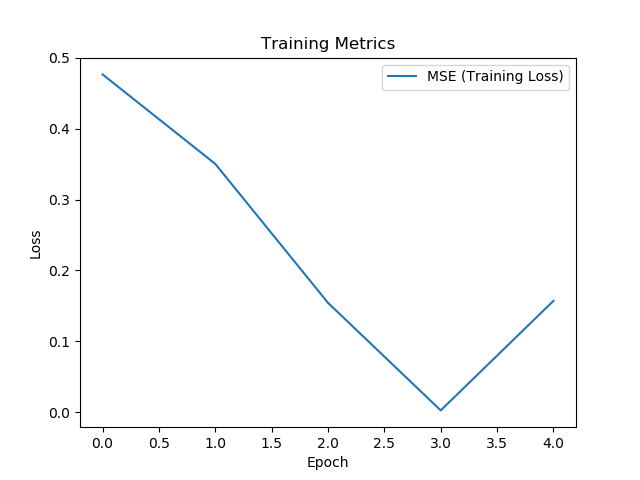
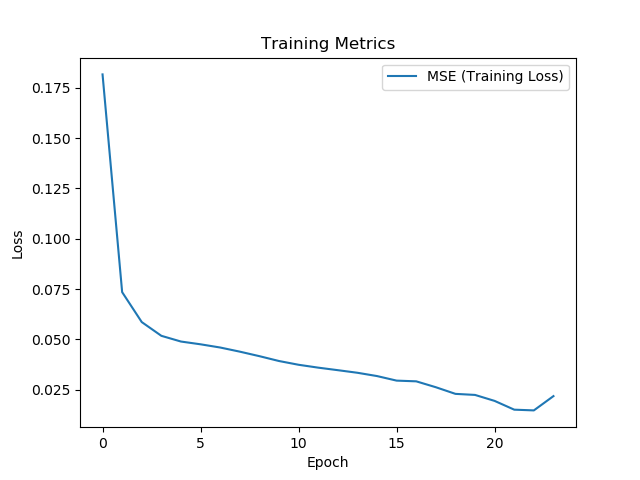
Adds logging + threshold changes

diff --git a/seq2point_test.py b/seq2point_test.py
@@ -1,4 +1,5 @@
-import os 
+import os
+import logging
 import numpy as np 
 import keras
 import pandas as pd
@@ -16,7 +17,11 @@ def count_pruned_weights(model):
             layer_weights = layer.get_weights()[0].flatten()
             num_zeros += np.count_nonzero(layer_weights==0)
             num_weights += np.size(layer_weights)
-    print("Model contains ", num_zeros, " zeros. Compression factor: ", str(num_weights / num_zeros))
+    pruned_log = "Pruned Weights: " + str(num_zeros)
+    logging.info(pruned_log)
+
+    compression_log = "Compression Factor: " + str((num_weights - num_zeros) / num_weights)
+    logging.info(compression_log)
 
 def test_model(appliance, algorithm, test_domain, crop, batch_size):
 
@@ -25,6 +30,7 @@ def test_model(appliance, algorithm, test_domain, crop, batch_size):
 
     Parameters:
     appliance (string): The appliance that the neural network was trained to make inferences for.
+    algorithm (string): The pruning algorithm of the model to test.
     test_domain (string): The appliance that the neural network will be tested with.
     crop (int): The number of rows of the testing dataset to train the network with.
     batch_size (int): The portion of the cropped dataset to be processed by the network at once.
@@ -76,11 +82,18 @@ def test_model(appliance, algorithm, test_domain, crop, batch_size):
     end_time = time.time()
     test_time = end_time - start_time
 
-    print("Test Time: ", test_time)
+    log_file = "./" + appliance + "/saved_model/" + appliance + "_" + algorithm + "_test_log.log"
+    logging.basicConfig(filename=log_file,level=logging.INFO)
+
+    inference_log = "Inference Time: " + str(test_time)
+    logging.info(inference_log)
 
     count_pruned_weights(model)
 
     evaluation_metrics = model.evaluate(x=test_generator.load_data(), steps=steps_per_test_epoch)
+
+    metric_string = "MSE: ", str(evaluation_metrics[0]), " MAE: ", str(evaluation_metrics[3])
+    logging.info(metric_string)
 
     testing_history = ((testing_history * appliance_data[appliance]["std"]) + appliance_data[appliance]["mean"])
     test_target = ((test_target * appliance_data[appliance]["std"]) + appliance_data[appliance]["mean"])
@@ -101,6 +114,6 @@ def test_model(appliance, algorithm, test_domain, crop, batch_size):
     plt.ylabel('Normalised Prediction')
     plt.xlabel('Testing Window')
     plt.legend()
-    plt.savefig(fname="testing_results.png")
-    
-    plt.show()
+
+    file_path = "./" + appliance + "/saved_model/" + appliance + "_" + algorithm + "_test_figure.png"
+    plt.savefig(fname=file_path)

diff --git a/threshold_callback.py b/threshold_callback.py
@@ -2,18 +2,7 @@ import numpy as np
 from keras.callbacks import Callback
 from model_structure import create_model
 
-# STRUCTURED PROBABILISTIC PRUNING PROTOTYPE
-
-# Currently prunes weights based on the probability that they are 
-# useless until a sparsity ratio is achieved.
-
-# Things to improve:
-#  - Compute probability for each column, not 
-#    just each filter (for Conv layers) and layers (for Dense layers). 
-#    The current implementation heavily prunes the lighter layers first.
-#
-#  - Implement Monte Carlo sampling for masking. It's currently just 
-#    uniform random distribution.
+# RELATIVE THRESHOLD PRUNING
 
 class Threshold(Callback):
     def __init__(self):
@@ -28,28 +17,34 @@ class Threshold(Callback):
         for layer in self.model.layers:
             if np.shape(layer.get_weights())[0] != 0:
                 weights = layer.get_weights()
-                self.get_delta_percentiles(weights)
+                self.get_delta_percentiles(layer.name, weights)
                 self.prune_weights(index, weights)
             else:
                 self.delta_percentiles.append(0)
             index += 1
 
-    def get_delta_percentiles(self, weights):
-        delta = 0.5
+    def get_delta_percentiles(self, layer_type, weights):
+        if "conv" in layer_type:
+            delta = 50
+        else:
+            delta = 70
 
         percentile_value = np.percentile(weights[0], delta)
         self.delta_percentiles.append(percentile_value)
 
-    def set_weights_to_prune(self, index, weights):
+    def prune_weights(self, index, weights):
         original_shape = np.shape(weights[0])
         flat_weights = np.array(weights[0]).flatten()
 
         weight_index = 0 
         for weight in flat_weights:
-            if weight < self.delta_percentiles[index]:
-                flat_weights[weight_index] = 0
+            if weight < 0:
+                if weight > self.delta_percentiles[index]:
+                    flat_weights[weight_index] = 0
+            if weight > 0:
+                if weight < self.delta_percentiles[index]:
+                    flat_weights[weight_index] = 0
             weight_index += 1
-
         weights[0] = np.reshape(flat_weights, original_shape)
 
         self.model.layers[index].set_weights(weights)

diff --git a/seq2point_train.py b/seq2point_train.py
@@ -141,7 +141,7 @@ def train_model(APPLIANCE, PRUNING_ALGORITHM, BATCH_SIZE, CROP):
             epochs=50,
             verbose=1,
             validation_data = VALIDATION_CHUNKER.load_dataset(),
-            validation_steps=100,
+            validation_steps=10000,
             validation_freq=5,
             callbacks=[early_stopping, spp])
         return training_history
@@ -196,7 +196,7 @@ def train_model(APPLIANCE, PRUNING_ALGORITHM, BATCH_SIZE, CROP):
 
         training_history = model.fit_generator(TRAINING_CHUNKER.load_dataset(),
             steps_per_epoch=steps_per_training_epoch,
-            epochs=50,
+            epochs=35,
             verbose=1,
             validation_data = VALIDATION_CHUNKER.load_dataset(),
             validation_steps=100,
